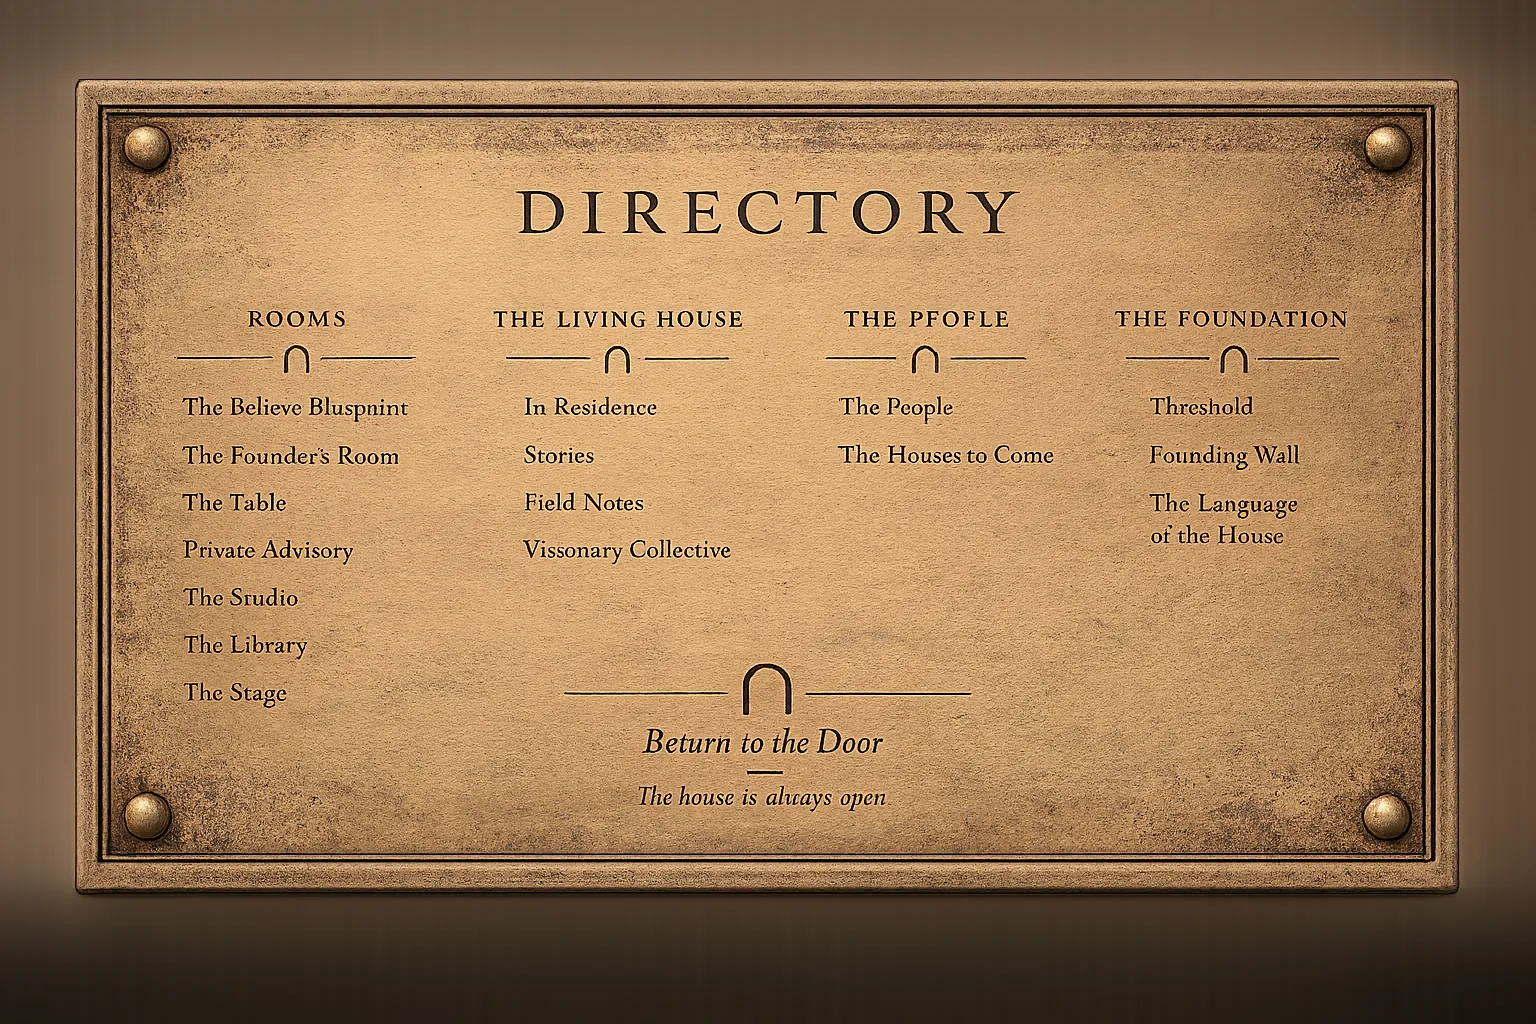
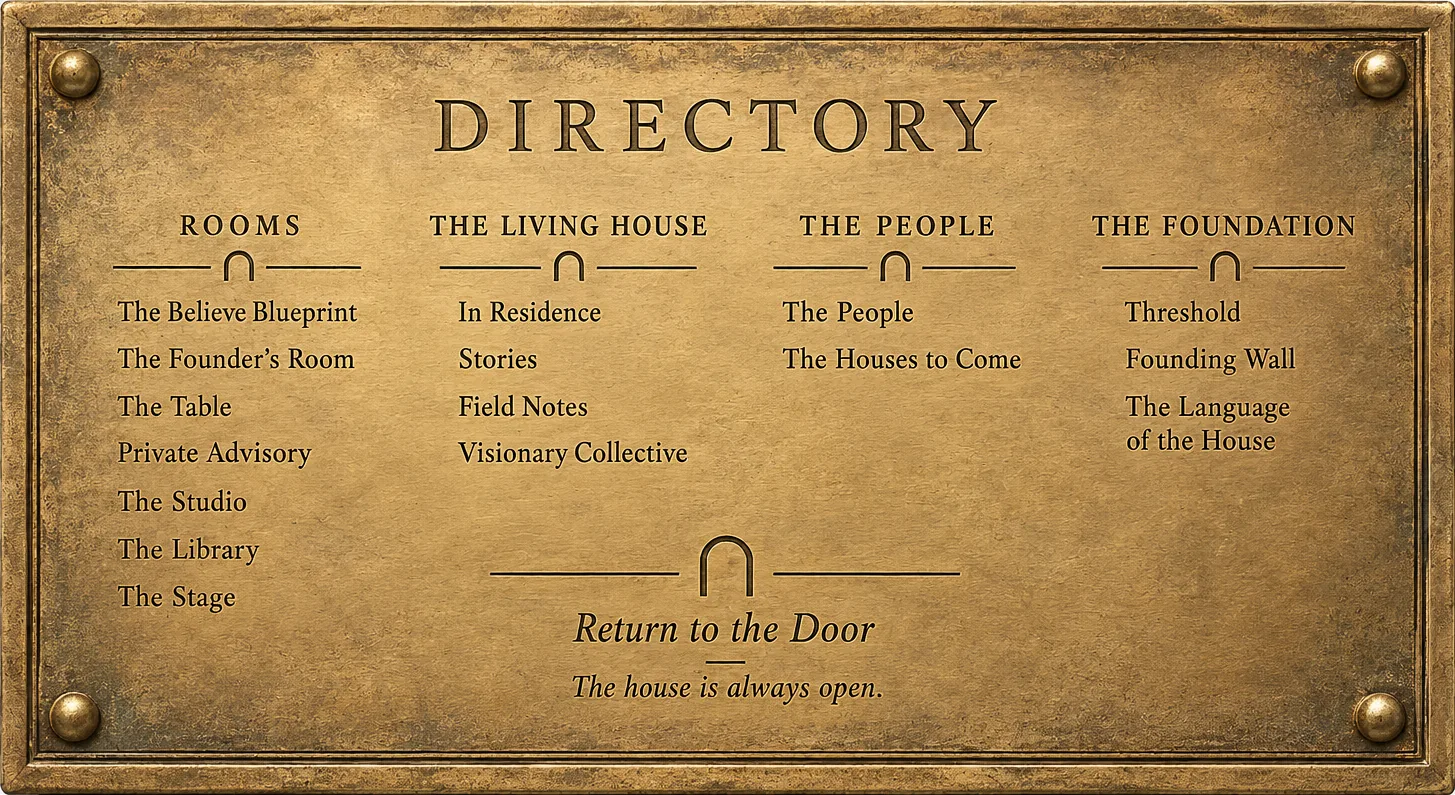
Install the fully-corrected four-family Directory plaque
Use the corrected engraving — every word now reads right, including
"THE PEOPLE" (previously PFOFLE). Trim the white background margin so the
plaque reads as mounted rather than floating, and map every hotspot to
the new framing (1455×795). All four columns, the two-line "Language of
the House," and "Return to the Door" verified aligned and routing
confirmed.

Claude-Session: https://claude.ai/code/session_01FVpjWAyjdDE8YjAWpcG1Ng

diff --git a/src/components/DirectoryPlaque.tsx b/src/components/DirectoryPlaque.tsx
@@ -22,14 +22,14 @@ export function DirectoryPlaque({ ctx, onNavigate }: { ctx: Ctx; onNavigate?: ()
 
   // the four engraved columns, by their left edge and text width
   const COL = {
-    rooms: { left: '12.4%', width: '21%' },
-    living: { left: '34.2%', width: '17%' },
-    people: { left: '55%', width: '15%' },
-    foundation: { left: '75.2%', width: '17%' },
+    rooms: { left: '8%', width: '20%' },
+    living: { left: '31.5%', width: '17%' },
+    people: { left: '53.8%', width: '18%' },
+    foundation: { left: '77.4%', width: '15%' },
   }
-  // engraved rows, top edge for a ~4.6% tall line
-  const R = ['37.4%', '42.1%', '46.7%', '51.4%', '56.1%', '60.7%', '65.3%']
-  const H = '4.6%'
+  // engraved rows, top edge for a ~5.6% tall line
+  const R = ['36.3%', '42.2%', '48.2%', '54%', '60.2%', '66.1%', '72.5%']
+  const H = '5.6%'
 
   const rooms: Spot[] = [
     { ...COL.rooms, top: R[0], height: H, go: ctx.openBlueprint, label: 'The Believe Blueprint' },
@@ -54,14 +54,14 @@ export function DirectoryPlaque({ ctx, onNavigate }: { ctx: Ctx; onNavigate?: ()
     { ...COL.foundation, top: R[0], height: H, go: ctx.gotoAnchor('room-threshold'), label: 'Threshold' },
     { ...COL.foundation, top: R[1], height: H, go: ctx.gotoAnchor('founding-wall'), label: 'The Founding Wall' },
     // "The Language of the House" wraps onto two engraved lines — a taller hotspot
-    { ...COL.foundation, top: R[2], height: '9.2%', go: ctx.gotoAnchor('the-language'), label: 'The Language of the House' },
+    { ...COL.foundation, top: R[2], height: '11.4%', go: ctx.gotoAnchor('the-language'), label: 'The Language of the House' },
   ]
   const all = [...rooms, ...living, ...people, ...foundation]
 
   return (
     <div
       style={{
-        maxWidth: 1120, margin: '0 auto', position: 'relative', aspectRatio: '1536 / 1024',
+        maxWidth: 1120, margin: '0 auto', position: 'relative', aspectRatio: '1455 / 795',
         backgroundImage: "url('/photos/directory-plaque.webp')",
         backgroundSize: 'contain', backgroundPosition: 'center', backgroundRepeat: 'no-repeat',
         filter: 'drop-shadow(0 40px 70px rgba(0,0,0,0.6))',
@@ -85,7 +85,7 @@ export function DirectoryPlaque({ ctx, onNavigate }: { ctx: Ctx; onNavigate?: ()
         onClick={wrap(ctx.replay)}
         aria-label="Return to the door"
         title="Return to the door"
-        style={{ position: 'absolute', left: '38%', top: '68.5%', width: '24%', height: '7.5%', cursor: 'pointer', borderRadius: 4, border: 'none', background: 'transparent', padding: 0, transition: 'background 350ms ease' }}
+        style={{ position: 'absolute', left: '40%', top: '76.3%', width: '19%', height: '7%', cursor: 'pointer', borderRadius: 4, border: 'none', background: 'transparent', padding: 0, transition: 'background 350ms ease' }}
         hover={{ background: 'radial-gradient(closest-side, rgba(255,240,205,0.18), transparent 82%)' }}
       />
     </div>
